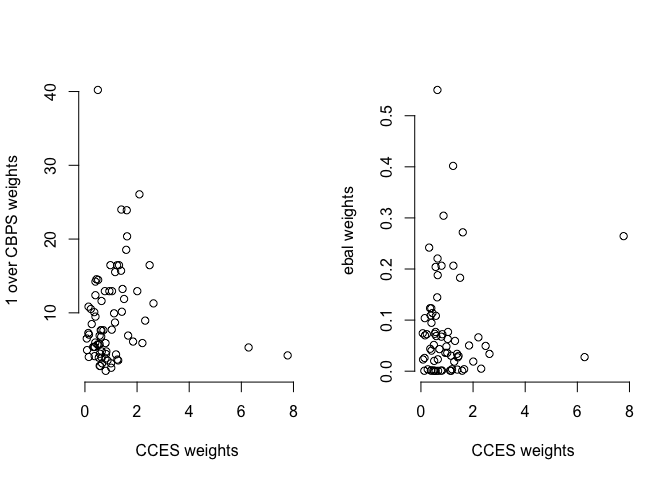
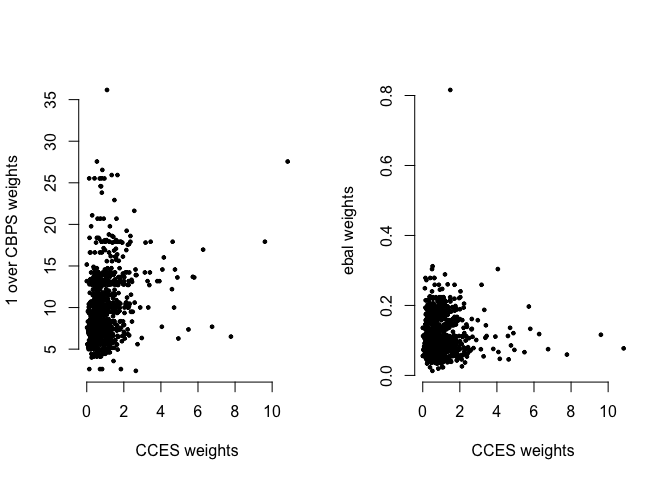
Use full sample

diff --git a/README.md b/README.md
@@ -254,22 +254,26 @@ Q 4.3: What are the issues with a simple logit?
 > but rather are typically constructed based on a combination of prob-
 > ability calculations and nonresponse adjustments.” — Gelman (2007)
 
-Q 5.1: Using the population data and matching on ID, create a propensity
-score.
+Q 5.1: Using the population data and matching on ID, estimate a
+propensity score (probability of selection).
+
+-   First, merge on the poll to the survey
+
+<!-- -->
 
     #> # A tibble: 10 x 4
-    #>    ID     race      educ          Spred
-    #>    <chr>  <fct>     <fct>         <dbl>
-    #>  1 294322 White     Some College 0.118 
-    #>  2 318622 White     Some College 0.102 
-    #>  3 302957 All Other 4-Year       0.114 
-    #>  4 298317 Hispanic  HS or Less   0.0369
-    #>  5 292502 White     4-Year       0.122 
-    #>  6 318598 White     HS or Less   0.0827
-    #>  7 313610 White     Some College 0.0695
-    #>  8 288443 All Other 4-Year       0.117 
-    #>  9 288890 Black     Post-Grad    0.123 
-    #> 10 269228 White     Some College 0.0689
+    #>    ID     race     educ          Spred
+    #>    <chr>  <fct>    <fct>         <dbl>
+    #>  1 315055 White    Post-Grad    0.166 
+    #>  2 320965 White    Post-Grad    0.138 
+    #>  3 287401 White    4-Year       0.156 
+    #>  4 315032 White    HS or Less   0.0727
+    #>  5 308268 Asian    4-Year       0.0731
+    #>  6 283578 White    Some College 0.102 
+    #>  7 311890 Hispanic Post-Grad    0.139 
+    #>  8 268536 White    Post-Grad    0.126 
+    #>  9 284629 White    4-Year       0.122 
+    #> 10 284943 White    Some College 0.0985
 
 Q 5.2: What are the issues in Propensity Score?
 
@@ -278,17 +282,24 @@ Distinction
 
 -   Coarsened Exact Matching
 -   Balance Test Fallacy
+-   See Gary’s talk on “Why We Shouldn’t We use Propensity Scores for
+    Matching”. Propensity scores can be used for other things other than
+    matching (like weighting), but some of the same problems crop up.
 
 Q 5.3: Compute a Covariate Balancing Score Weights from the small frame,
 and same with ebal scores
 
 Load packages and start with a small sample.
 
-    #> # A tibble: 2 x 2
-    #>       S     n
-    #>   <dbl> <int>
-    #> 1     0   925
-    #> 2     1    75
+``` r
+library(ebal)
+library(CBPS)
+
+select <- dplyr::select # package conflict
+
+# matrix version of what we are about to fit
+frame_sel_X <- model.matrix(~ educ + race + state, frame_sel)[, -1]
+```
 
     #> Converged within tolerance
 
